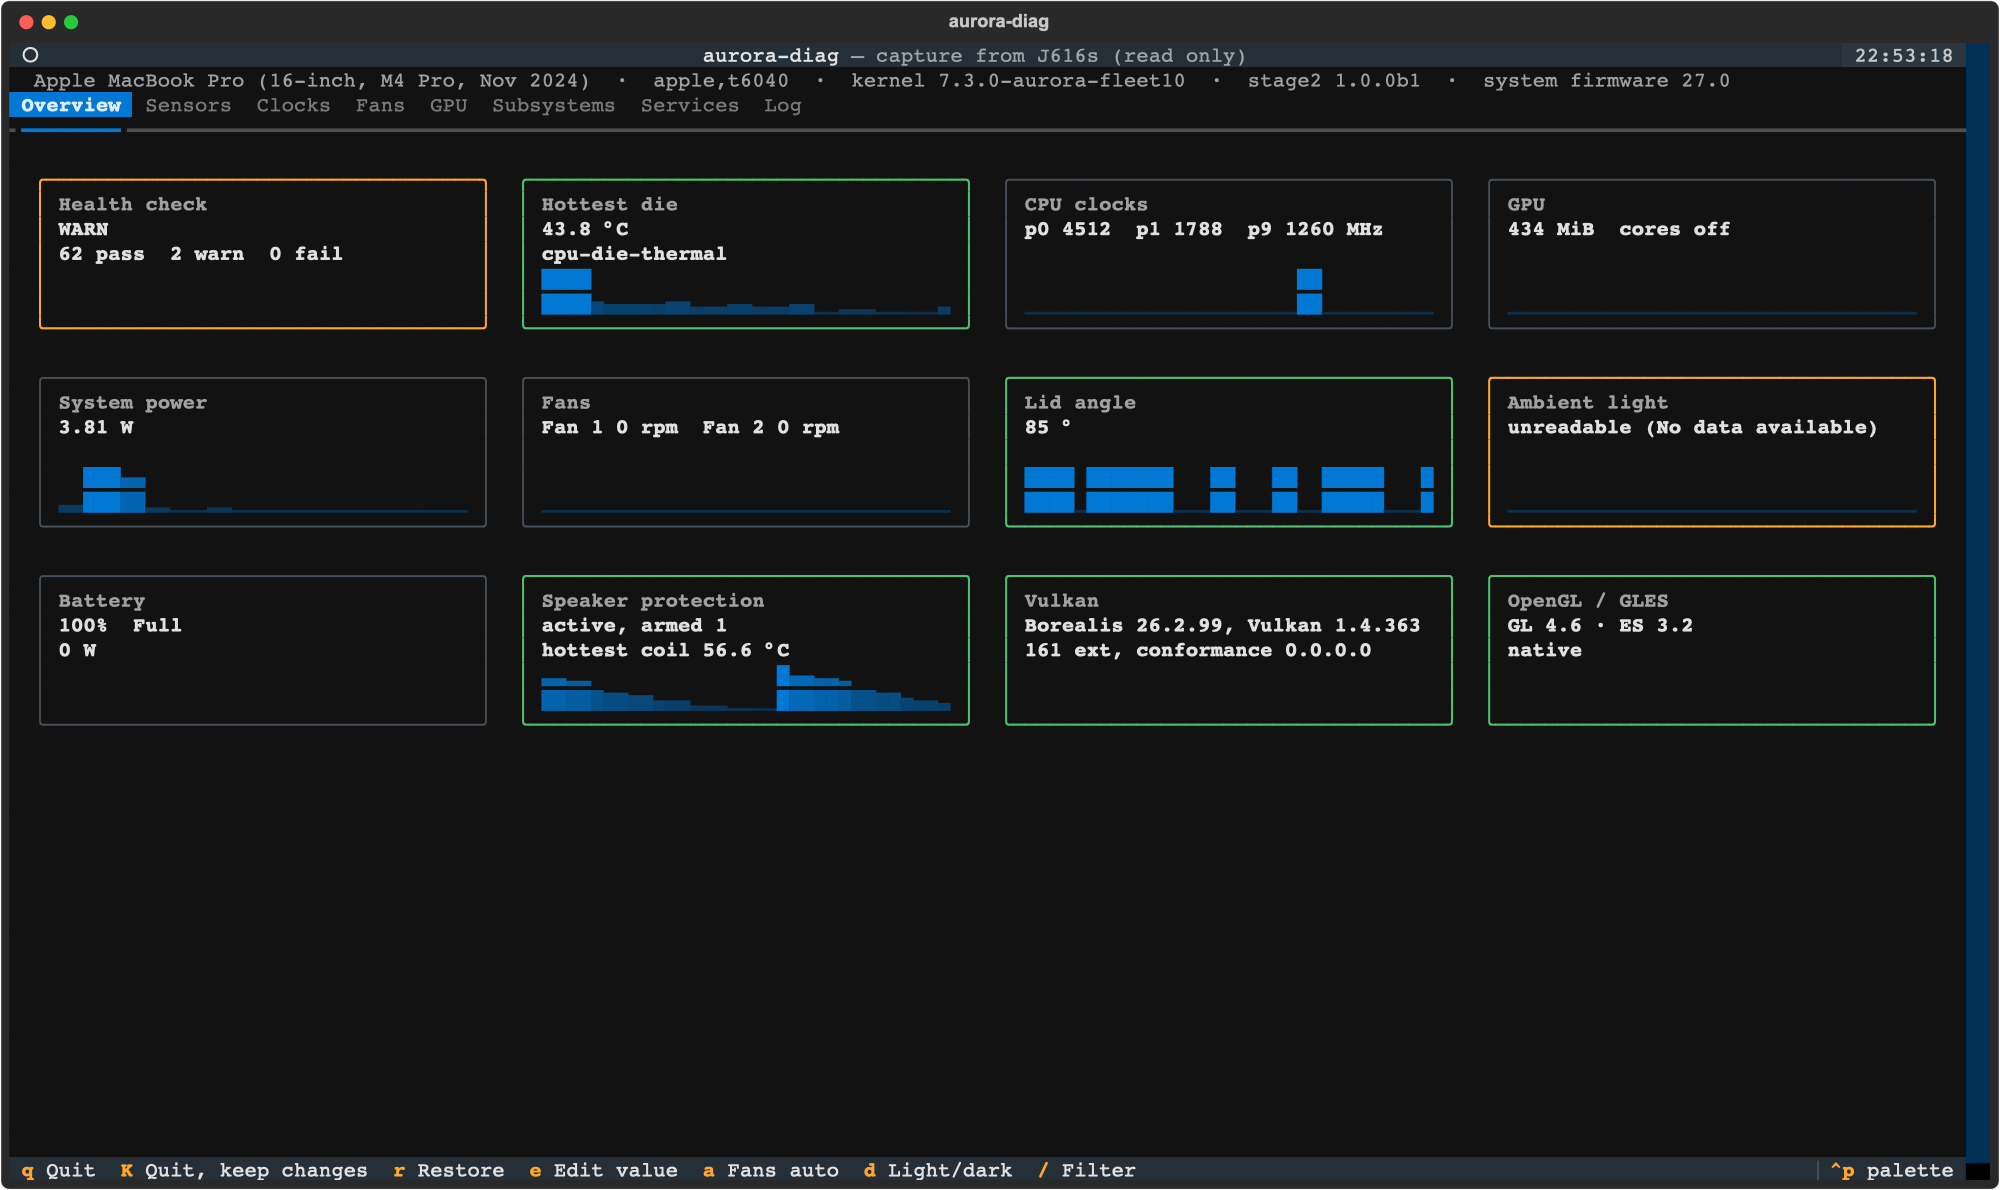
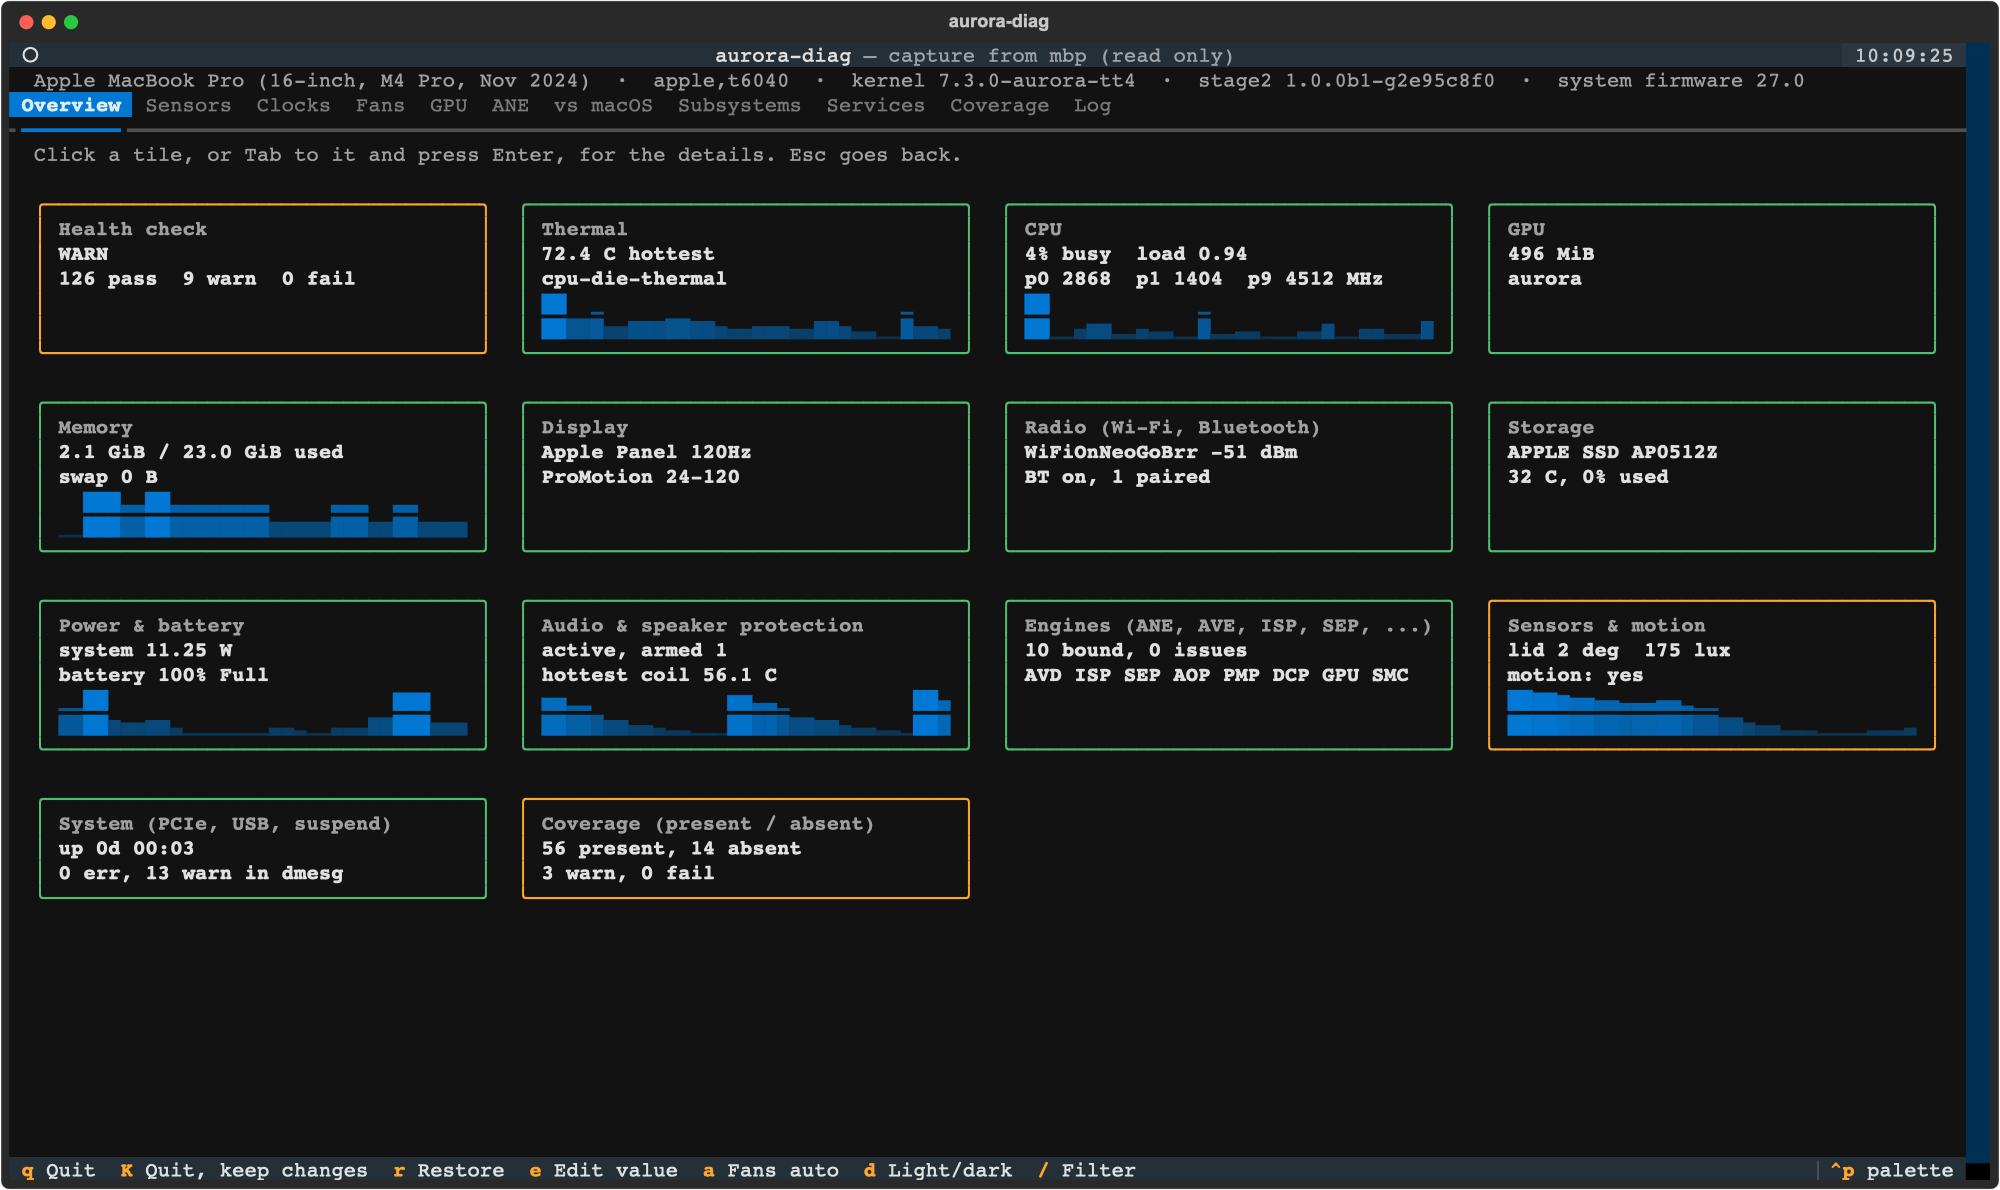
aurora-diag: Wi-Fi firmware from the driver and the log, thermal fallback, new screenshots

diff --git a/aurora_diag/sections.py b/aurora_diag/sections.py
@@ -219,6 +219,11 @@ def thermal(readings=None):
                   "%d zones, %d trip points" % (len(zones), len(trips)) if zones else "no thermal zone (the device tree has no thermal-zones node for this machine)"),
              item("cooling devices", "ok" if cooling else "absent", "%d cooling devices" % len(cooling) if cooling else "no cooling device registered"),
              item("fans", "ok" if fl else "absent", ", ".join("%s %s rpm" % (f["label"], f["rpm"]) for f in fl) if fl else "fanless (no fan channel in hwmon)")]
+    if hot is None:
+        num = [r for r in temps if isinstance(r["value"], (int, float))]
+        if num:
+            top = max(num, key=lambda r: r["value"])
+            hot, name = top["value"], "%s (hwmon)" % (top.get("label") or top["attr"])
     lvl = "fail" if (hot or 0) >= 100 else "warn" if (hot or 0) >= 90 else "ok"
     tables = [table("Every temperature, hottest first", ("sensor", "now", "device", "id"), rows)]
     if trips:
@@ -775,7 +780,8 @@ def motion():
                         errs[f] = why or raw
                     vals[f] = round(v * scale, 5) if (v is not None and scale and f.endswith("_raw")) else v
                 found.setdefault(kind, []).append({"device": dv, "name": sysfs.read(d + "/name"), "values": vals, "errors": errs,
-                                                   "scale": scale, "sampling_frequency": sysfs.read(d + "/sampling_frequency"),
+                                                   "scale": scale,
+                                                   "sampling_frequency": sysfs.read(d + "/sampling_frequency") or sysfs.read(d + "/" + rx[1:] + "sampling_frequency"),
                                                    "label": sysfs.read(d + "/label"),
                                                    "mount_matrix": sysfs.read(d + "/in_mount_matrix") or sysfs.read(d + "/mount_matrix")})
     # Motion sensor nodes: named accel/gyro/... or with a motion compatible.
@@ -1208,7 +1214,8 @@ def radio():
         ei = _ethtool_drvinfo(n) or {}
         phy = sysfs.basename_of_link(d + "/phy80211")
         rows = [["driver", "%s%s" % (drv or ei.get("driver") or "?", (" " + ei["version"]) if ei.get("version") else "")],
-                ["firmware", ei.get("firmware") or _fw_from_dmesg(drv) or "not reported"],
+                ["firmware (ethtool)", ei.get("firmware") or "not reported by the driver"],
+                ["firmware (kernel log)", _fw_from_dmesg(drv) or "no firmware line in the log"],
                 ["bus", "%s %s" % (ue.get("PCI_SLOT_NAME") or ei.get("bus") or "-", ue.get("PCI_ID") or ue.get("OF_COMPATIBLE_0") or "")],
                 ["phy", phy or "-"], ["state", "%s, carrier %s" % (sysfs.read(d + "/operstate"), sysfs.read(d + "/carrier"))],
                 ["regulatory domain", regd or "unknown (iw not installed?)"]]
@@ -1250,7 +1257,9 @@ def radio():
         else:
             rows.append(["scan results", "needs root (iw scan dump)"])
         tables.append(table("Wi-Fi %s" % n, ("field", "value"), rows))
-        items.append(item("Wi-Fi " + n, "ok", "%s, fw %s, %s%s" % (drv, ei.get("firmware") or "?", ssid or "not connected",
+        fwlog = _fw_from_dmesg(drv)
+        fwv = (re.search(r"version (\S+)", fwlog or "") or [None, None])[1] or ei.get("firmware") or "not reported"
+        items.append(item("Wi-Fi " + n, "ok", "%s, firmware %s, %s%s" % (drv, fwv, ssid or "not connected",
                                                                      (", %s %s" % (_band(freq), lk.get("signal", ""))) if ssid else "")))
         facts["wifi"][n] = {"driver": drv, "firmware": ei.get("firmware"), "phy": bool(phy)}
         if ssid:
